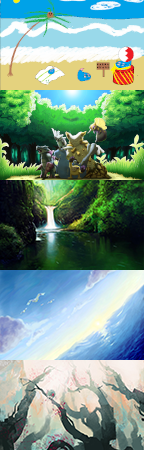
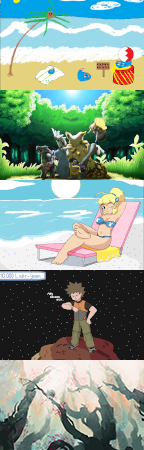
Adds two more Clover backgrounds

diff --git a/js/client-topbar.js b/js/client-topbar.js
@@ -769,6 +769,8 @@
 
 			buf += '<button name="setBg" value="blobbos-beach"' + (cur === 'blobbos-beach' ? ' class="cur"' : '') + '><span class="bg" style="background-position:0 -' + (90 * 0) + 'px"></span>Blobbos Beach</button>';
 			buf += '<button name="setBg" value="team-forest"' + (cur === 'team-forest' ? ' class="cur"' : '') + '><span class="bg" style="background-position:0 -' + (90 * 1) + 'px"></span>Team Forest</button>';
+			buf += '<button name="setBg" value="brock-space"' + (cur === 'brock-space' ? ' class="cur"' : '') + '><span class="bg" style="background-position:0 -' + (90 * 2) + 'px"></span>Brock in Space</button>';
+			buf += '<button name="setBg" value="kymmi-beach"' + (cur === 'kymmi-beach' ? ' class="cur"' : '') + '><span class="bg" style="background-position:0 -' + (90 * 3) + 'px"></span>Kymmi Beach</button>';
 
 			buf += '</div><div style="clear:left"></div>';
 			buf += '<p><strong>Custom</strong></p>';

diff --git a/src/client-core.ts b/src/client-core.ts
@@ -213,7 +213,7 @@ const PSBackground = new class extends PSStreamModel {
 			if (location.host === 'smogtours.psim.us') {
 				bgid = 'shaymin';
 			} else if (location.host === Config.routes.client) {
-				const bgs = ['blobbos-beach', 'team-forest'];
+				const bgs = ['blobbos-beach', 'team-forest', 'brock-space', 'kymmi-beach'];
 				bgid = bgs[Math.floor(Math.random() * bgs.length)];
 				if (bgid === this.curId) bgid = bgs[Math.floor(Math.random() * bgs.length)];
 			}

diff --git a/js/storage.js b/js/storage.js
@@ -49,7 +49,7 @@ Storage.bg = {
 	 */
 	load: function (bgUrl, bgid, hues) {
 		this.id = bgid;
-		const bgs = ['blobbos-beach', 'team-forest'];
+		const bgs = ['blobbos-beach', 'team-forest', 'brock-space', 'kymmi-beach'];
 		if (!bgid) {
 			if (location.host === 'smogtours.psim.us') {
 				bgid = 'shaymin';
